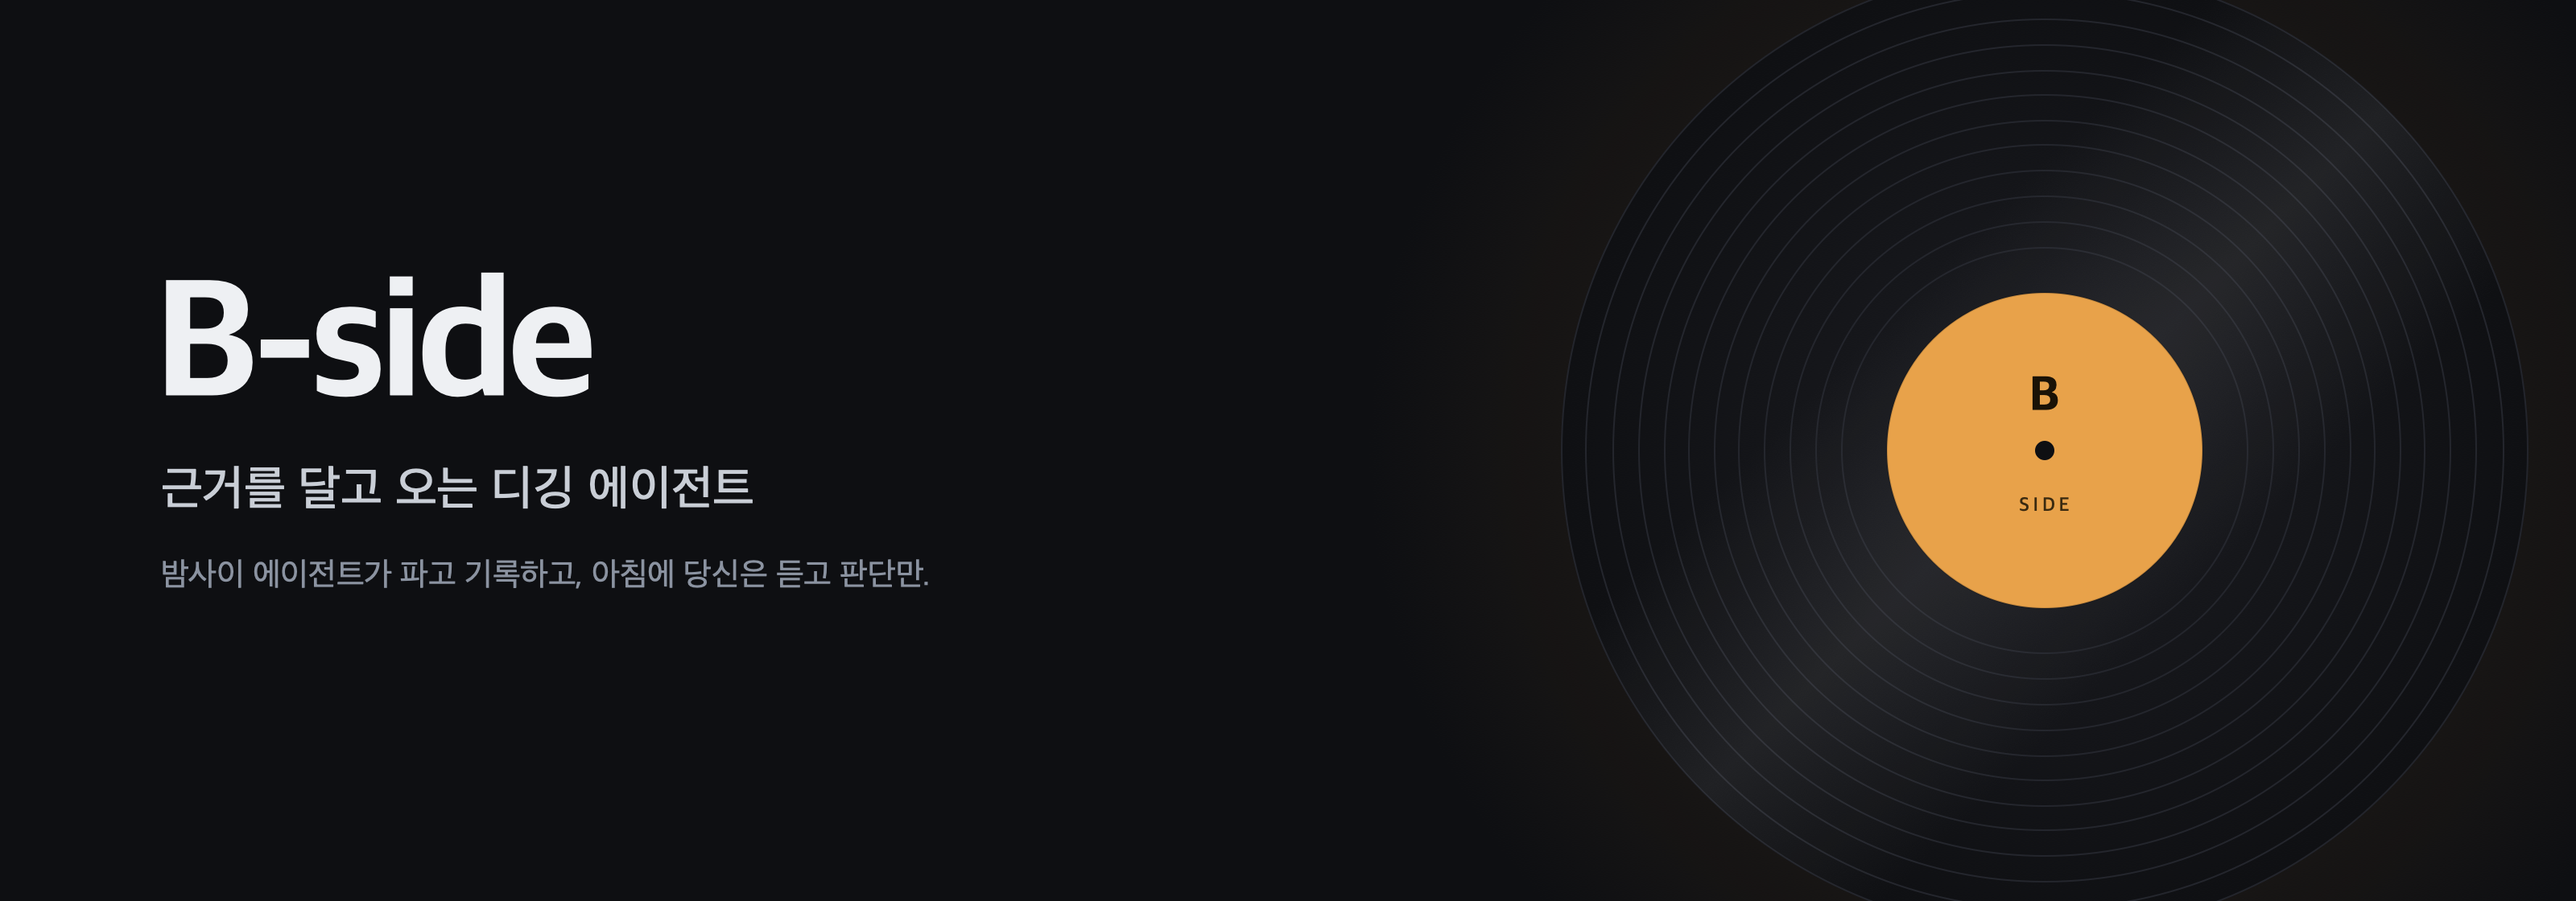
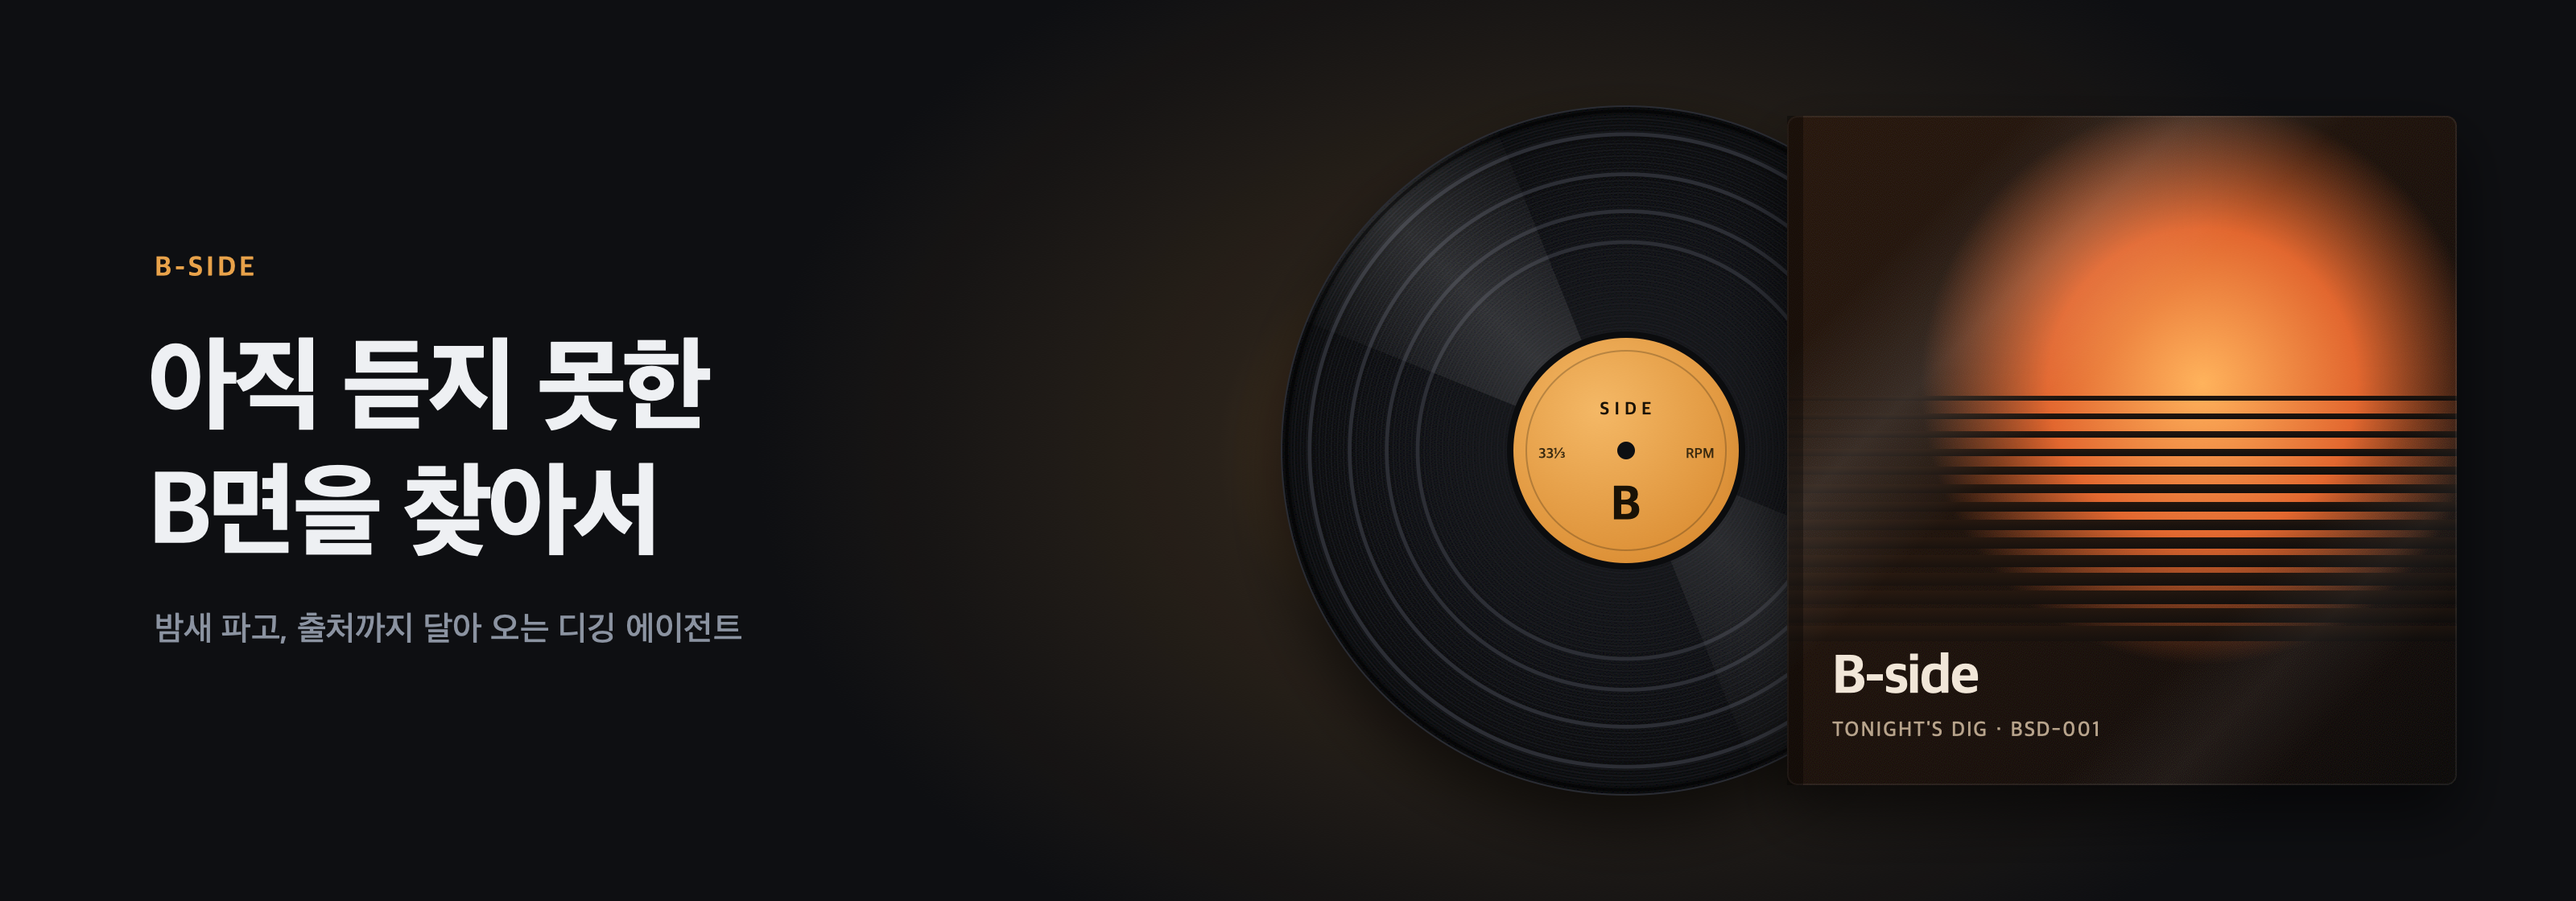
배너 리디자인: 재킷에서 꺼낸 LP, 문구 변경

diff --git a/docs/index.html b/docs/index.html
@@ -146,8 +146,8 @@
     <div>
       <p class="eyebrow">디깅 에이전트</p>
       <h1>B-side</h1>
-      <p class="tag">근거를 달고 오는 디깅 에이전트</p>
-      <p class="lead">밤사이 에이전트가 인터뷰·리뷰·크레딧을 파고 기록합니다. 아침에 당신은 듣고 판단만 하면 됩니다. 모든 추천에는 발견 경로와 원문 인용이 붙습니다.</p>
+      <p class="tag">아직 듣지 못한 B면을 찾아서</p>
+      <p class="lead">밤새 인터뷰·리뷰·크레딧을 파고, 출처까지 달아 오는 디깅 에이전트입니다. 아침에 당신은 듣고 판단만 하면 됩니다. 모든 추천에는 발견 경로와 원문 인용이 붙습니다.</p>
       <div class="cta">
         <a class="btn primary" href="https://github.com/jhwoo582/B-side">GitHub에서 보기</a>
         <a class="btn" href="#how">작동 방식</a>
